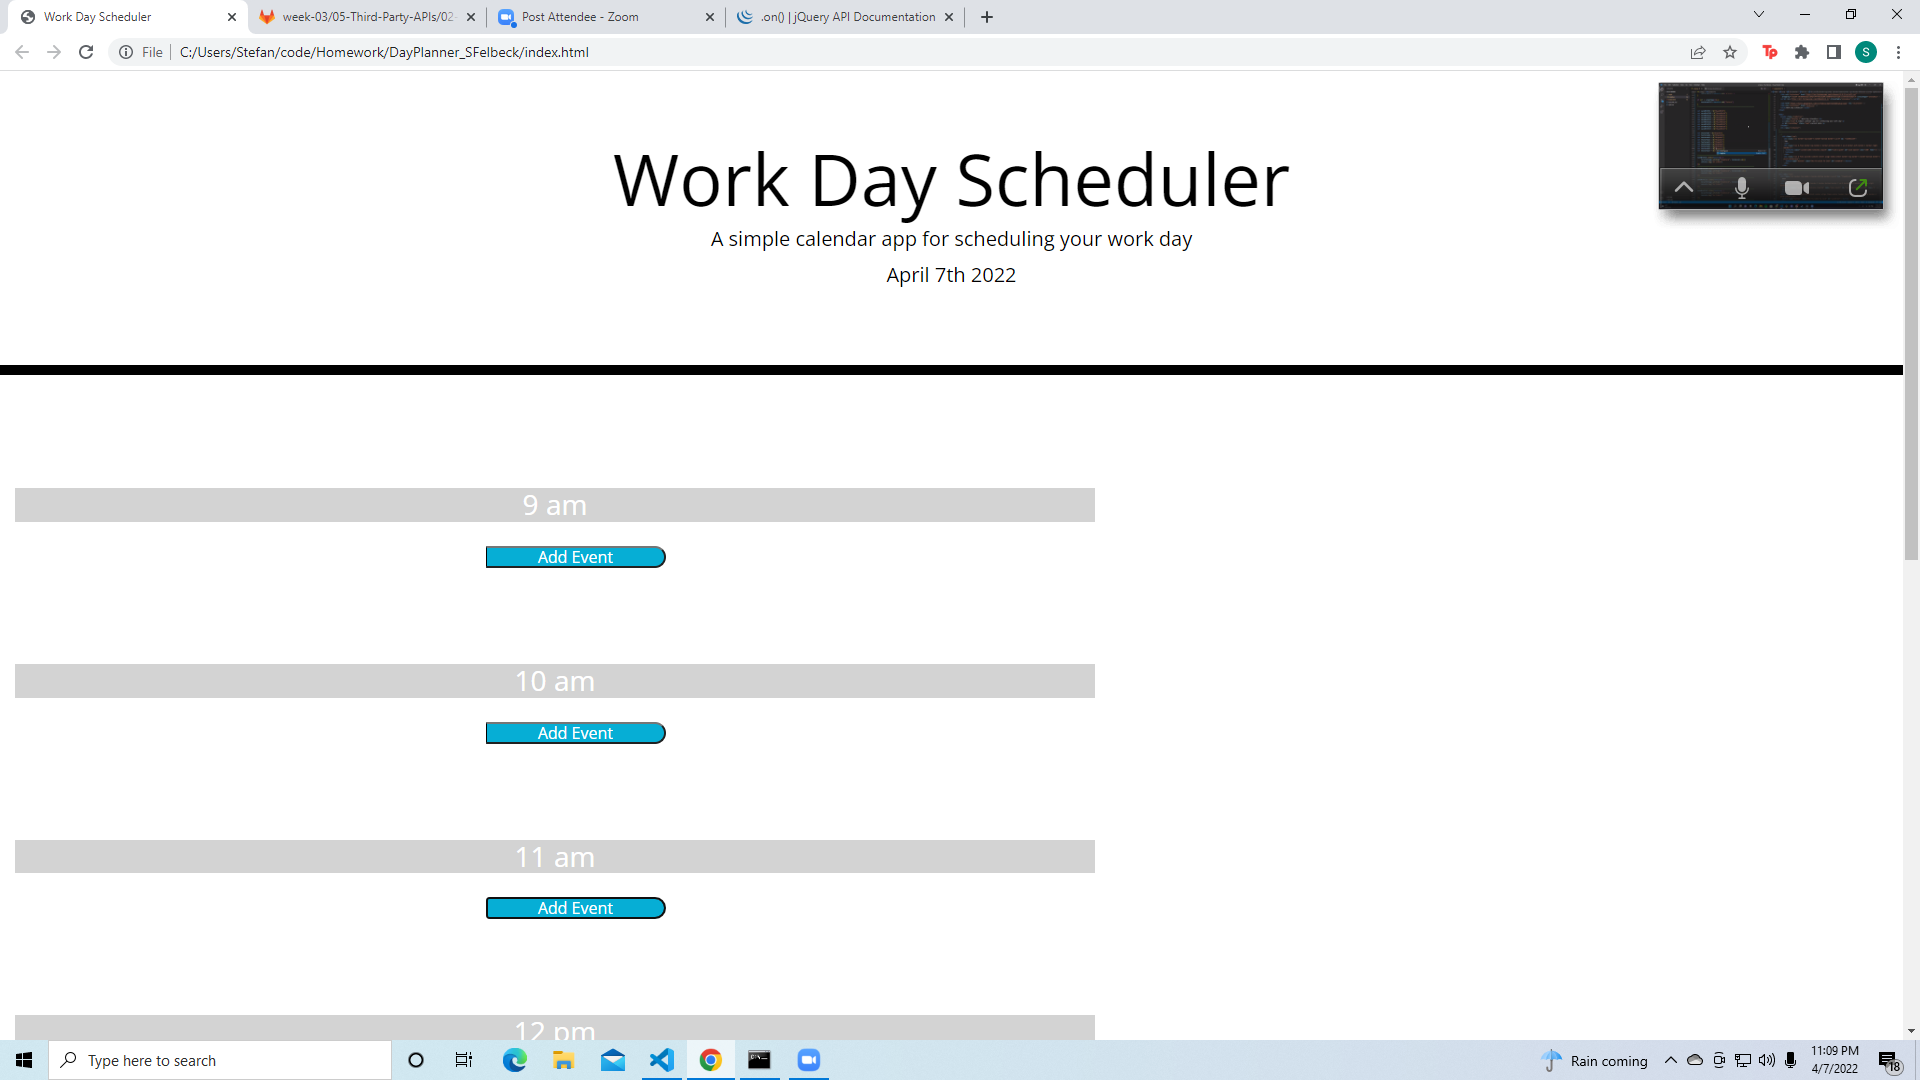
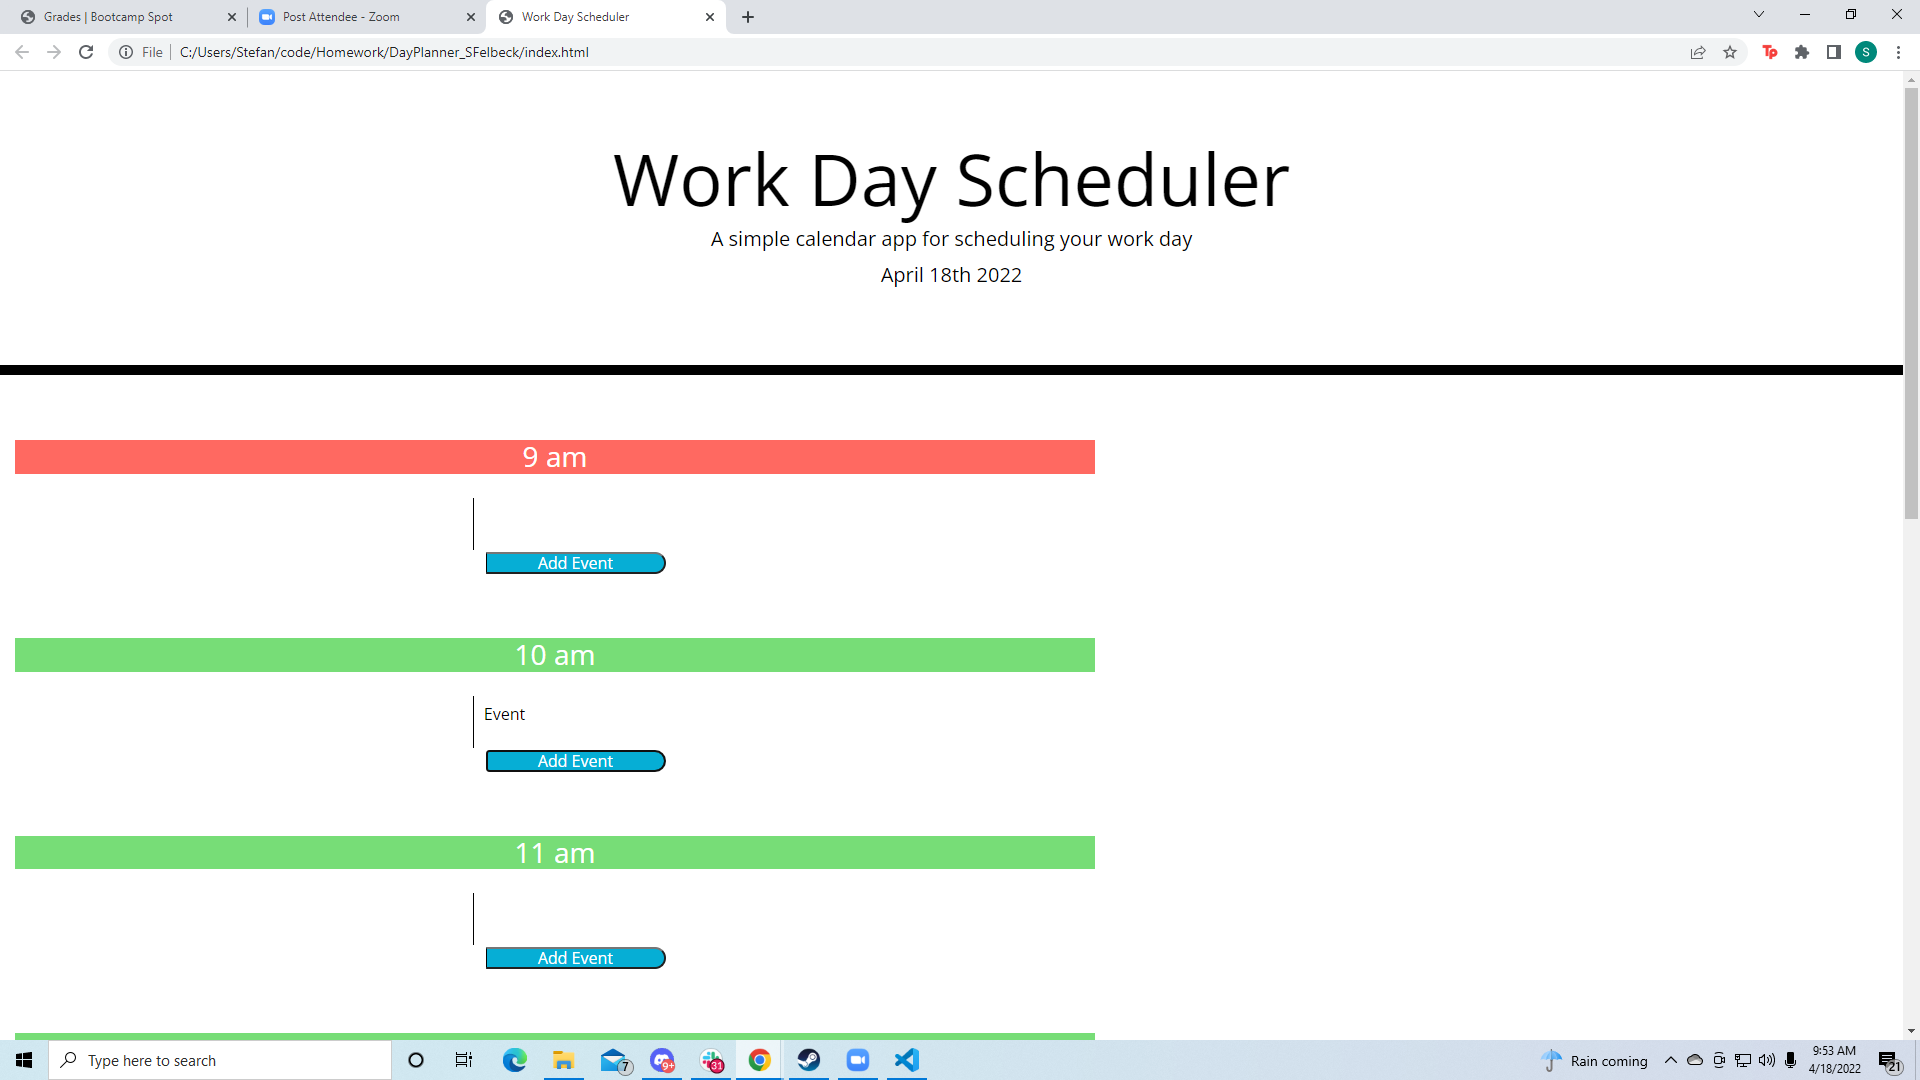
updates

diff --git a/index.html b/index.html
@@ -36,56 +36,64 @@
     <div id="containerRow" class="container row">
       <!-- Timeblocks go here -->
         <section id="9" class="col-12 time-block">
-          <ul class="description"></ul>
           <h3 data-time="09" class="hour col-2">9 am</h3>
+          <textarea class="description"></textarea>
           <button class="saveBtn col-2">Add Event</button>
         </section>
 
         <section id="10" class="col-12 time-block">
-          <ul class="description"></ul>
+          
           <h3 data-time="10" class="hour col-2">10 am</h3>
+          <textarea class="description"></textarea>
           <button class="saveBtn col-2">Add Event</button>
         </section>
 
         <section id="11" class="col-12 time-block">
-          <ul class="description"></ul>
+          
           <h3 data-time="11" class="hour col-2">11 am</h3>
+          <textarea class="description"></textarea>
           <button class="saveBtn col-2">Add Event</button>
         </section>
 
         <section id="12" class="col-12 time-block">
-          <ul class="description"></ul>
+          
           <h3 data-time="12" class="hour col-2">12 pm</h3>
+          <textarea class="description"></textarea>
           <button class="saveBtn col-2">Add Event</button>
         </section>
 
         <section id="13" class="col-12 time-block">
-          <ul class="description"></ul>
+          
           <h3 data-time="13" class="hour col-2">1 pm</h3>
+          <textarea class="description"></textarea>
           <button class="saveBtn col-2">Add Event</button>
         </section>
 
         <section id="14" class="col-12 time-block">
-          <ul class="description"></ul>
+          
           <h3 data-time="14" class="hour col-2">2 pm</h3>
+          <textarea class="description"></textarea>
           <button class="saveBtn col-2">Add Event</button>
         </section>
 
         <section id="15" class="col-12 time-block">
-          <ul class="description"></ul>
+          
           <h3 data-time="15" class="hour col-2">3 pm</h3>
+          <textarea class="description"></textarea>
           <button class="saveBtn col-2">Add Event</button>
         </section>
 
         <section id="16" class="col-12 time-block">
-          <ul class="description"></ul>
+          
           <h3 data-time="16" class="hour col-2">4 pm</h3>
+          <textarea class="description"></textarea>
           <button class="saveBtn col-2">Add Event</button>
         </section>
 
         <section id="17" class="col-12 time-block">
-          <ul class="description"></ul>
+          
           <h3 data-time="17" class="hour col-2">5 pm</h3>
+          <textarea class="description"></textarea>
           <button class="saveBtn col-2">Add Event</button>
         </section>
       </div>

diff --git a/assets/js/script.js b/assets/js/script.js
@@ -19,16 +19,21 @@ $('h3').each(function(){
     }
 })
 
-// I was unable to get the user input sections to work from this point on, Ive figured out that the prompt ignores all info within each parent but I was unable to figure out a fix in time
-
-var userInput = $('button').on("click", addEvent).each;
-
+// grabs the text value from sibling elements with the class 'description' and saves the value to localstorage
+$(".saveBtn").on("click", function(){
+    var divText = $(this).siblings(".description").val();
+    var divKey = $(this).parent().attr("id");
+    localStorage.setItem(divKey, divText);
+})
 // retrieve from localstorage here
 
-function addEvent(event){
-    let inputField = prompt("Add your event here")
-    // let dataStorage = document.querySelector('.data-storage');
-    var inputSibling = userInput.sibling("ul");
-
-    inputSibling.append(inputField(value) + " ");
-}
+// retrieves values from localstorage by hour marker
+$("#9 .description").val(localStorage.getItem("9"));
+$("#10 .description").val(localStorage.getItem("10"));
+$("#11 .description").val(localStorage.getItem("11"));
+$("#12 .description").val(localStorage.getItem("12"));
+$("#13 .description").val(localStorage.getItem("13"));
+$("#14 .description").val(localStorage.getItem("14"));
+$("#15 .description").val(localStorage.getItem("15"));
+$("#16 .description").val(localStorage.getItem("16"));
+$("#17 .description").val(localStorage.getItem("17"));

diff --git a/README.md b/README.md
@@ -1,10 +1,10 @@
 # DayPlanner_SFelbeck
 
-This assignment was far more difficult than I had initially determined it to be, I struggled quite a bit in javascript before a classmate pointed out that we were using jquery and at first that seemed to be a far better solution. However I was unable to finish the user input portion of the assignment. I was able to append list items to the top of the screen with a prompt but ran out of time before I could figure out the remaining steps.
-My classmates were extremely useful in the stufy groups however that ultimately could not overcome the relentless march of time.
+I had a number of stumbles with this assignment, in particular with the save buttons and localstorage, and I found myself relying quite a bit on my classmates and tutors for help with this assignment.
+I was given partial code for a dayplanner app and needed to add timeblocks in html. In the Javascript I had to ensure that the timeblocks changed color to reflect the time of day as well as save the value stored in a text space as a saved event unique to that hour.
 
 ![screenshot](./assets/assets/site.png)
 
-you can find the current state of the application here
+you can find the application here!
 
 <a href="https://sfelbeck.github.io/DayPlanner_SFelbeck/">You can find the site here</a>
